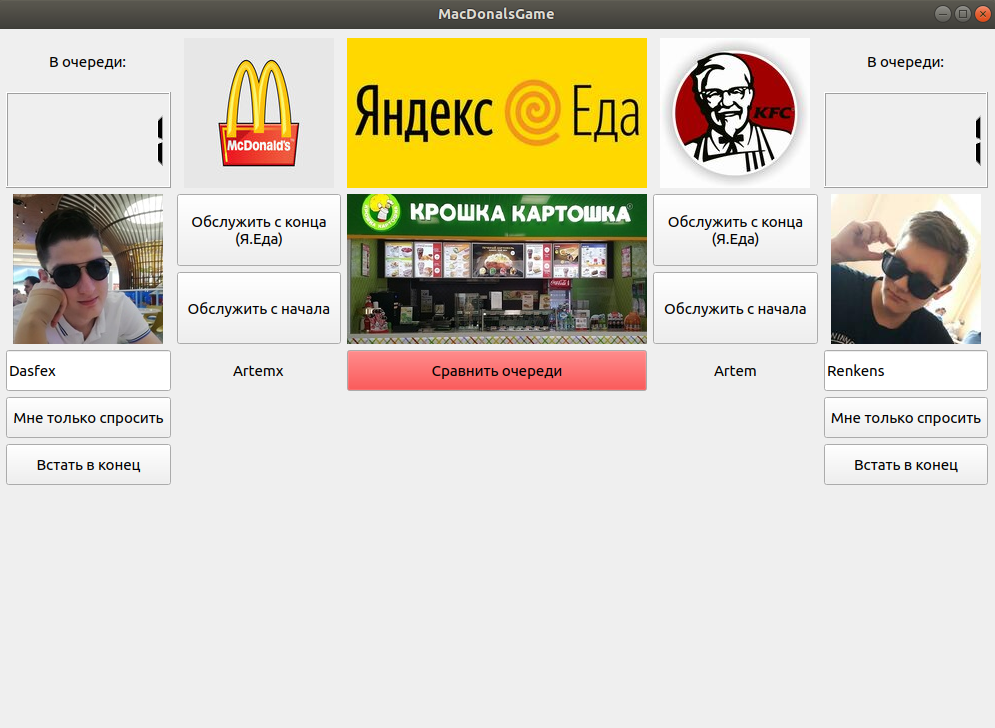
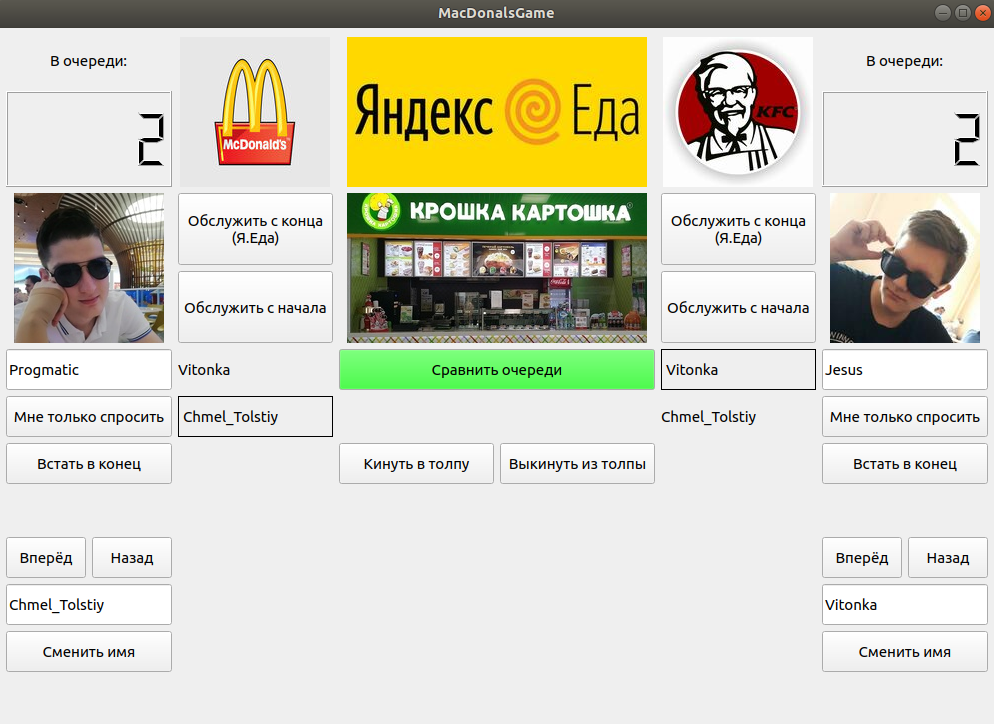
Fixed display of first deque & update screenshots

diff --git a/view.cpp b/view.cpp
@@ -184,9 +184,9 @@ void TView::DrawFirstDeque(const TDeque& firstDeque) {
     for (int displayedCount = 0; displayedCount < LeftLabels.size() &&
          it.IsValid(); ++it, ++displayedCount) {
         if (it == current) {
-            LeftLabels[displayedCount - 1]->setFrameStyle(QFrame::Panel);
+            LeftLabels[displayedCount]->setFrameStyle(QFrame::Panel);
         }
-        LeftLabels[displayedCount - 1]->setText(*it);
+        LeftLabels[displayedCount]->setText(*it);
     }
     LeftIteratorTextInput->setText(*current);
 }
